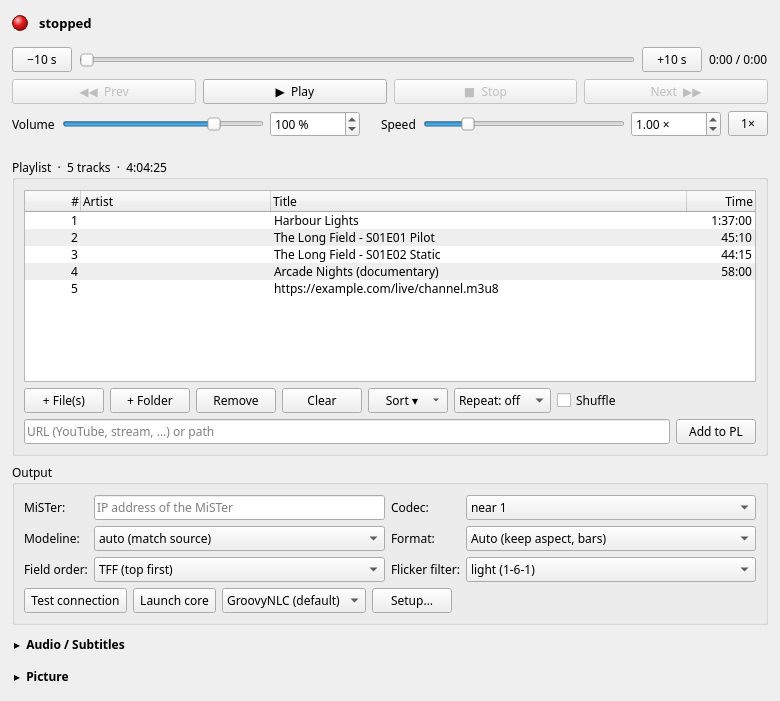
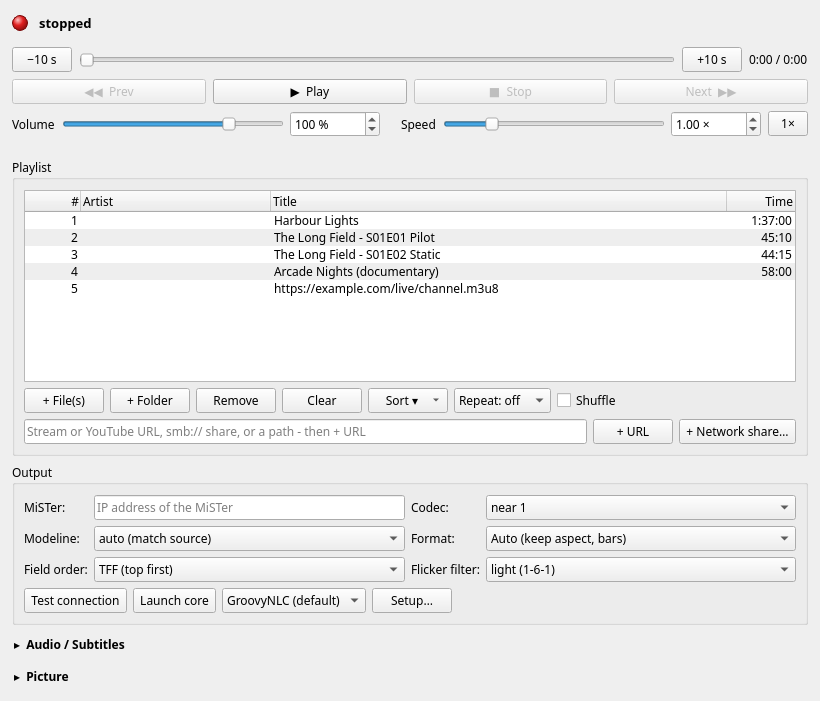
docs: login file, Test login, host key, + URL / + Network share, yt-dlp check, modeline fine-tune; screenshots

diff --git a/README.md b/README.md
@@ -129,10 +129,10 @@ mister-ui/build/misterMPV
 (or start the AppImage)
 
 1. Enter the MiSTer's IP address under **Output → MiSTer** (or set `$MISTER_HOST`).
-2. Check the login in **Setup… → MiSTer login** (see the next section; a stock MiSTer is `root` / `1`), press
+2. Enter the login in **Setup… → MiSTer login** (see the next section; a stock MiSTer is `root` / `1`), press
    **Launch core**, wait a few seconds, then press **Test connection**: it should say *MiSTer answered*.
 3. Add media: **+ File(s)**, **+ Folder**, drag files onto the list, or paste a stream or YouTube URL and press
-   **Add to PL** (details in [Adding media](#adding-media-files-folders-streams-youtube-network-shares)).
+   **+ URL** (details in [Adding media](#adding-media-files-folders-streams-youtube-network-shares)).
 4. Press **Play**, or double-click an entry.
 
 Files can also be given on the command line: `misterMPV film.mkv ~/Videos/Series/` adds them and starts playing.
@@ -153,14 +153,18 @@ MiSTer itself loads cores. Everything it needs is in **Setup… → MiSTer login
 
 | Field | Meaning | Stock MiSTer |
 |---|---|---|
-| SSH host | the MiSTer IP from the main window (**Output → MiSTer**), no separate field | - |
+| SSH host | only if SSH should go to another address; empty = the MiSTer IP from **Output → MiSTer** | empty |
 | SSH user | login name | `root` |
-| SSH password | login password (see the note below) | `1` |
+| SSH password | login password; leave it empty if you log in with a key | `1` |
+| SSH key file | optional private key, e.g. `~/.ssh/id_ed25519` | empty |
 | SSH port | SSH port | `22` |
 | GroovyNLC core | path or wildcard of the core file on the MiSTer; the newest match is loaded | `/media/fat/_Utility/GroovyNLC_*.rbf` |
 | Groovy core (original) | the same for psakhis' original Groovy core | `/media/fat/_Utility/Groovy_*.rbf` |
 
-The fields start with the stock values, **Defaults** puts them back, **Save** stores them. The selector next to
+The login fields start empty: misterMPV has no built-in user name or password, the grey text only shows what a stock
+MiSTer uses. The core paths fall back to the stock paths shown in grey when they are empty. **Test login** logs in with
+the values as they are in the dialog and shows which core files **Launch core** would load (or that none matches).
+**Defaults** empties the fields, **Save** stores them. The selector next to
 **Launch core** in the main window decides which of the two cores is loaded. Use *GroovyNLC* for misterMPV; the
 original core is only there so you can switch the MiSTer back to it for other programs (misterMPV cannot stream to it).
 If the core file is in another folder, enter that path, for example `/media/fat/_Utility/GroovyNLC_20260712.rbf` or
@@ -168,12 +172,15 @@ If the core file is in another folder, enter that path, for example `/media/fat/
 
 **Test connection** sends one UDP packet to port 32100 and reports whether the core answers. It needs no SSH.
 
-**Where the login is stored, and keys.** The settings, the SSH password included, are stored unencrypted in
-`~/.config/mistercast/mpv-mister-ui.conf` on your PC. They are never part of the repository or a release. Make the file
-readable only for you with `chmod 600 ~/.config/mistercast/mpv-mister-ui.conf`. misterMPV runs the normal `ssh` program,
-so a key you have set up for the MiSTer (or a running `ssh-agent`) is tried first; the password is only used if the
-MiSTer asks for one, and with a key it can stay empty. The password is handed to `ssh` through a short-lived helper
-script, never on the command line. misterMPV does not check the MiSTer's SSH host key, so use it only in your own LAN.
+**Where the login is stored, keys and host key.** The login and the core paths are stored only on your PC, in
+`~/.config/mistercast/misterMPV-login.conf`, which misterMPV keeps readable only by you (`chmod 600`). The password is
+stored there as plain text, so prefer a key if you can. Older versions kept the login in the general settings file;
+misterMPV moves it over on the first start. Nothing of it is part of the repository or a release.
+misterMPV runs the normal `ssh` program: with an empty password it only uses keys (the key file from Setup, or your
+default keys and a running `ssh-agent`) and never waits for a prompt; with a password, keys are still tried first.
+The password is handed to `ssh` through a short-lived helper script, never on the command line. The MiSTer's host key
+is remembered on the first login in `~/.config/mistercast/misterMPV-known_hosts`. If it changes later (new SD card,
+reinstall), the login is refused with a hint; delete that file if the change is expected.
 
 ## Adding media: files, folders, streams, YouTube, network shares
 
@@ -184,7 +191,8 @@ script, never on the command line. misterMPV does not check the MiSTer's SSH hos
 | **+ File(s)** | pick one or more files |
 | **+ Folder** | adds every video and audio file in the folder and its subfolders, sorted by name (up to 5000 files) |
 | drag and drop | drop files or folders from a file manager onto the list |
-| URL box + **Add to PL** (or Enter) | a stream URL, a YouTube link, a local path or a network share URL |
+| URL box + **+ URL** (or Enter) | a stream URL, a YouTube link, an `smb://` address or a local path (a folder is scanned like **+ Folder**) |
+| **+ Network share…** | asks for an `smb://` address of a folder or file and mounts it through kio-fuse |
 | command line | `misterMPV film.mkv ~/Videos/Series/` |
 
 Recognised file types: `mkv mp4 avi mov webm mpg mpeg ts m2ts wmv flv m4v ogv vob` (video) and
@@ -192,11 +200,11 @@ Recognised file types: `mkv mp4 avi mov webm mpg mpeg ts m2ts wmv flv m4v ogv vo
 time, read in the background with `ffprobe`.
 
 **Streams.** Paste the URL, for example `https://example.com/live/channel.m3u8` (HLS) or a direct `http(s)://` link to a
-video file, into the URL box and press **Add to PL**.
+video file, into the URL box and press **+ URL**.
 
 **YouTube** (and the other sites `yt-dlp` knows). Paste the video or playlist link the same way. mpv hands it to
 [yt-dlp](https://github.com/yt-dlp/yt-dlp), which therefore has to be installed and on the `PATH`; check with
-`yt-dlp --version`. Without yt-dlp mpv cannot open such an entry and skips to the next one. YouTube changes
+`yt-dlp --version`. Without yt-dlp misterMPV does not add the link and says how to install yt-dlp. YouTube changes
 often, so keep yt-dlp current (distribution package, `pipx upgrade yt-dlp` or `yt-dlp -U`). Picture quality is no
 problem: everything is scaled down to the CRT mode anyway.
 
@@ -204,16 +212,19 @@ problem: everything is scaled down to the CRT mode anyway.
 [kio-fuse](https://invent.kde.org/system/kio-fuse) installed (`kio-fuse` package), misterMPV turns network URLs into
 local paths:
 
-- In **+ File(s)** / **+ Folder**, open *Network* (or type `smb://server/share` into the path bar) and pick files or a
-  folder; or
-- paste a URL such as `smb://server/Videos/Films/film.mkv` into the URL box.
+- press **+ Network share…** and enter the address of a folder or a file, for example `smb://server/Videos/Films`
+  (a folder is added with all its videos, like **+ Folder**); or
+- paste such an address into the URL box and press **+ URL**; or
+- on KDE, open *Network* in **+ File(s)** / **+ Folder** (or type `smb://server/share` into the path bar).
+
+If kio-fuse is missing, **+ Network share…** says so and points to the alternative below.
 
 misterMPV asks kio-fuse (over D-Bus) to mount the share and plays it from there; after a reboot it mounts it again
 by itself. The share's user name and password are asked for and kept by KDE (KWallet), not by misterMPV, so there is
-nothing to put in a config file. `smb://user@server/share` selects the user; never put a password into the URL, because
-playlist entries are saved as plain text.
+nothing to put in a config file. `smb://user@server/share` selects the user. An address with a password in it is
+refused, because playlist entries are saved as plain text.
 
-Without KDE, and in the AppImage, whose file dialog cannot browse `smb://`, mount the share with the usual tools and
+Without kio-fuse (it is part of KDE), mount the share with the usual tools and
 add the mounted folder with **+ Folder**. For example with GNOME/GVfs: `gio mount smb://server/Videos`, then the folder
 `/run/user/$(id -u)/gvfs/smb-share:server=server,share=videos`. Or with a CIFS mount in `/etc/fstab` whose password
 lives in a separate credentials file that only root can read:
@@ -364,7 +375,7 @@ scripts in `~/.config/mpv/scripts` load as usual. With the AppImage, unpack it o
 
 ## CRT geometry and calibration
 
-What fills the screen is decided in three places:
+What fills the screen is decided in four places:
 
 - **Modeline** (**Output → Modeline**): the 15 kHz mode the CRT receives. `auto` picks 240p/480i at 60 Hz or
   288p/576i at 50 Hz from the source's frame rate and height; a fixed mode can be chosen as well
@@ -373,6 +384,10 @@ What fills the screen is decided in three places:
   fixed 4:3 / 16:9 / 21:9).
 - **CRT calibration**: size and position inside the raster, so that nothing disappears behind the bezel. This is
   stored and applies to every mode, to local playback and to Jellyfin casts alike.
+- **Modeline fine-tune** (in the same dialog): moves the sync pulse of one modeline, which shifts the whole picture on
+  the CRT without scaling it or losing pixels. Stored per modeline.
+
+The calibration dialog opens from **Picture → CRT calibration…** and from **Setup… → Picture on the CRT → CRT geometry…**.
 
 Most CRTs overscan: the edges of the picture sit behind the bezel, and the visible area is often a little off centre.
 The calibration scales and shifts the picture inside the 15 kHz raster so that all of it is visible. The values are
@@ -395,6 +410,15 @@ stored and apply to everything misterMPV plays, including Jellyfin casts.
    ![CRT calibration dialog](mister-ui/screenshots/calibration.png)
 
 5. Close the dialog (the pattern switches off) or untick the box. **Reset** returns to 100 % and no shift.
+
+**Modeline fine-tune.** If the picture sits off centre on your set in one particular mode, move that mode itself
+instead of shrinking the picture: choose the modeline in the lower part of the dialog and set **Horizontal** (pixels,
++ = right) and **Vertical** (lines, + = down). The change is applied live, so do it with the test pattern on and a file
+in that mode playing. misterMPV keeps the sync inside the blanking interval, so the line and frame rates never change
+and the values stop where the mode has no more room. With **Modeline = auto**, misterMPV uses 640x480i60 for most
+films and series (320x240p60 for sources up to 240 lines), and 720x576i50 / 320x288p50 for 25/50 fps (PAL) sources;
+adjust those you actually use. **Reset this modeline** returns it to the
+stock timing. Without the window: `--mister-sync-shift=720x480i60:2:-1,320x240p60:0:1`.
 
 What this looks like on a set that overscans and sits slightly to the left (simulated from the real test pattern):
 

diff --git a/MISTER.md b/MISTER.md
@@ -34,6 +34,7 @@ that goes out.
 | `--mister-hsize`, `--mister-vsize` | 80-100 | picture size in % of the raster (CRT overscan) |
 | `--mister-hoffset`, `--mister-voffset` | -72..72 / -28..28 | shift in pixels / field lines |
 | `--mister-calibrate` | yes/no | show the calibration test pattern instead of the video |
+| `--mister-sync-shift` | `key:h:v,...` | modeline fine-tune: moves the sync pulse of a modeline so the picture shifts h pixels right / v lines down on the CRT; clamped to the blanking, live |
 
 `--force-window` defaults to `yes` in this fork so the video output (and the gamepad / overlay) also exists
 for audio-only files.
@@ -58,7 +59,7 @@ B5/B6 previous/next, B7 status text on the TV, B9/B10 seek -/+60 s. A button wit
 ## The control window (`mister-ui/`)
 
 Qt6, talks to mpv over the JSON IPC socket (`--input-ipc-server`). Settings live in QSettings
-(`~/.config/mistercast/mpv-mister-ui.conf`), tag cache in `~/.cache/misterMPV/misterMPV-tags2.json`.
+(`~/.config/mistercast/mpv-mister-ui.conf`; SSH login and core paths in `misterMPV-login.conf`, mode 600), tag cache in `~/.cache/misterMPV/misterMPV-tags2.json`.
 
 - *Output*: host, codec, modeline, format (aspect), field order, flicker filter, **Test connection** (UDP status
   request, expects a 13-byte reply), **Launch core** (SSH: `load_core <newest matching .rbf>` into
